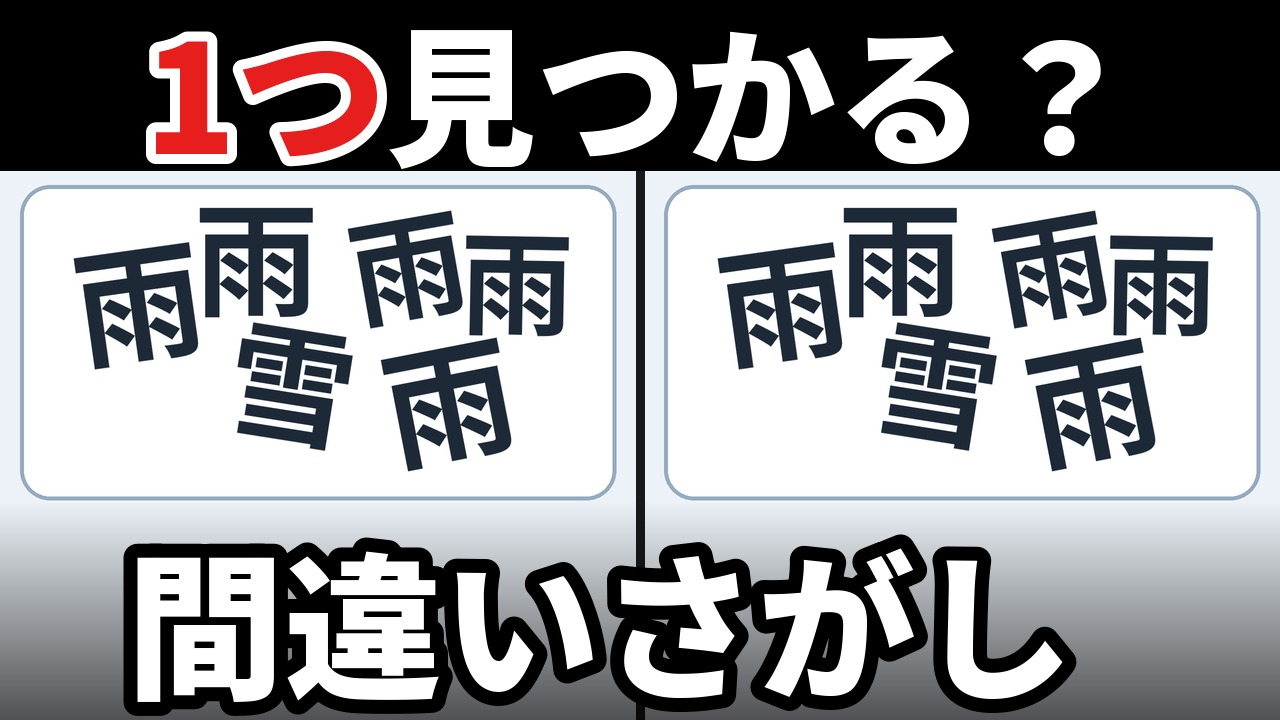
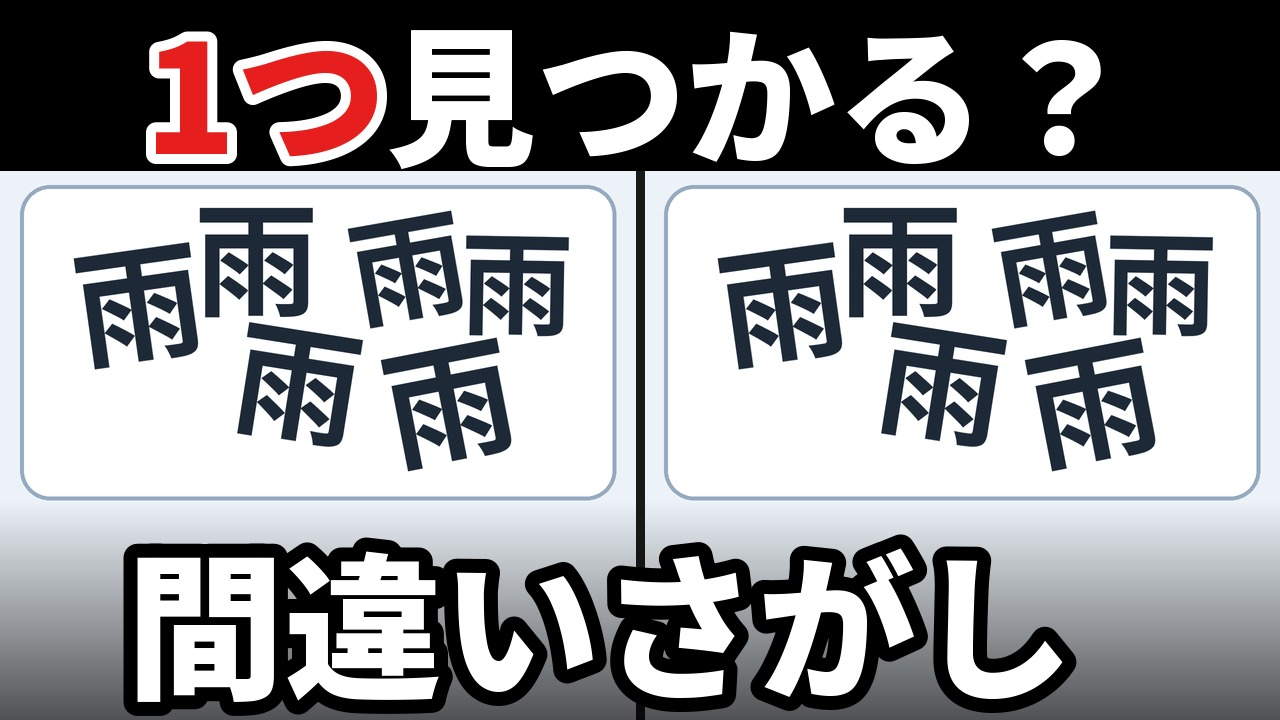
文字クイズ長尺 tlong_002（漢字の間違い探し20問）：監査合格・非公開アップロード、順番待ち30行目を完了
Claude-Session: https://claude.ai/code/session_01RF3BnfrPSRk1U21VXW6Yry

Changed region(s): [[0.6875, 0.4583, 0.7812, 0.6417], [0.1875, 0.4583, 0.2812, 0.6417]]

diff --git a/scripts/text_long.py b/scripts/text_long.py
@@ -770,7 +770,7 @@ def make_thumbnail(P, folder):
         return
     if P["kind"] == "chigau_long":     # 字がたくさん散らばる台紙（左右とも同じ絵）
         d.rounded_rectangle((40, 30, pw * sc - 40, 660), 60, fill=TH["panel"], outline=TH["edge"], width=8)
-        Qt = dict(Q, n=Th.get("n", 6), size=Th.get("size", [210, 260]), seed=Th.get("seed", 5), odd_i=Th.get("odd_i", 2), tilt=Th.get("tilt", 12))
+        Qt = dict(Q, odd=Q["main"], n=Th.get("n", 6), size=Th.get("size", [210, 260]), seed=Th.get("seed", 5), odd_i=Th.get("odd_i", 2), tilt=Th.get("tilt", 12))
         for k in range(200):
             try:
                 lay = scatter(dict(Qt, seed=Qt["seed"] + 100 * k), area=(90, 60, pw * sc - 90, 640), canvas=(pw * sc, ph * sc)); break

diff --git a/departments/audit/log.md b/departments/audit/log.md
@@ -209,3 +209,5 @@
 | 2026-11-25 | tlong_001 文字クイズ長尺（都道府県クイズ 全20問） | video.mp4（571.3秒・1920×1080・30fps）・problem.json・answer_check.md・description.md・readings_check.md・transcript_check.md・frames.jpg・timeline.json・thumbnail.jpg・ab/thumb_A.jpg・scripts/text_long.py（新規）・scripts/youtube_playlists.py（コミット 77435cd） | 不合格（差し戻し1回目） | 重大 T-1：エンディングの登録のお願い「よかったら、チャンネル登録も、お願いします。」に理由がない（ng-list 2026-11-14、concept.md「登録のお願いには理由を付ける」）。→ problem.json ending.lines の3つ目を第34回と同じ文「チャンネル登録とベルで、毎朝8時半に問題が届きます。毎日の頭の体操にどうぞ。」（声は「チャンネルとうろくとベルで、まいあさはちじはんに、もんだいがとどきます。まいにちの、あたまのたいそうにどうぞ。」。新しく作る声はこの1行だけ。transcript_check で確かめる）にして build を1回。重大 T-2：チャプターの最初「0:00 オープニング」が4.4秒しかなく、YouTube はチャプターの長さが10秒未満だとチャプター全体を出さない（CEO指示「説明欄にチャプターを入れる」が働かない）。→ text_long.py write_description で「オープニング」の行を出さず、最初を「0:00 1問目（りんごで有名な県）」にする。全チャプター10秒以上かをプログラムで確かめる。合格：答え20問とも1つに決まる（候補2つの2・3・5・14・16・19はヒントで1つ。事実もなまはげ秋田・首里城沖縄・美濃岐阜・越中富山・日向宮崎ほか全部正しい）。県庁所在地の問題は休憩カード・説明欄で予告しており問題なし。ショートとの重なりは過去の text_ の problem.json 全49本と照合し、答えが同じなのは1問目 青森（text_032）・10問目 大分（text_015）の2問だけ＝新しい18問。愛知・岩手・茨城は過去のショートではヒントの中だけ。声45行すべて「渡した文」あり・「入る」なし・11/18問目の番号の読みOK・文の間0.64秒以上。1問目4.4秒・15秒カウント（残り5〜1のピッ）・答え。抜き取り（2問目0:31・11問目4:37・20問目8:45・エンディング9:11）は画面と一致。−19.9LUFS・ピーク−0.8dB。冬の色・0:00大きな文字。thumb_same_check 合格（差1.08）。targets() はショートの分け方を変えない（text_/mushi_/間違い探しで確認）。text_shorts.py は未変更。軽微：(1) タイトル3案（ab/titles.md）とサムネ3案がない（間違い探しの決まり。文字クイズ長尺で要るかは事業部長が決める）。(2) チャプターの秒は切り捨てで最大0.8秒早い。(3) 指示のタイトル字数「30字」は実際28字（32字以内で問題なし）。 |
 | 2026-11-25 | tlong_001 再審査（差し戻し1回目のあと） | video.mp4（576.7秒・1920×1080）・problem.json・readings_check.md・transcript_check.md・description.md・timeline.json・tlong001_fix.jpg | 合格（軽微あり） | T-1：エンディング3行目は第34回と同じ字幕になった。声は読点を足した文（指示の文のままだと「うろこ」と崩れたため）。文字起こしは「ちゃんねるとうろくと、べるで、まいあさはちじはんに…」で OK、45行すべて OK。T-2：目次の先頭が「0:00 1問目」になり、全21行が10秒以上（エンディングは25秒）。10秒未満なら write_description が止まる。軽微は初回の (1)(2) のまま。 |
 | 2026-11-25 | tlong_002 文字クイズ長尺（漢字の間違い探し 全20問） | video.mp4（688.9秒・1920×1080）・problem.json・answer_check.md・description.md・readings_check.md・transcript_check.md・frames.jpg・timeline.json・thumbnail.jpg・ab/thumb_A.jpg・scripts/text_long.py の変更（コミット e82f0c7） | 不合格（差し戻し1回目） | 重大 K2-1：同じ字「場」を2問で変えている（5問目 野球場「場→湯」、16問目 駐車場「場→揚」）。どちらも土へんを替えて右の「昜」を残す、ほぼ同じ変化。episode-checklist【厳守】「同じ物・同じ変化は1回の動画の中で1度まで」（11/25 CEO決定で重大）に当たる。check_kanji は「違う字」の重なりしか調べず、元の字の重なりを見ていない。→ 5問目の2つ目を「4行目の『野』→『理』」（字幕「野球場の『野』が、理科の『理』に。」、声「やきゅうじょうの、やが、りかの、りに」）にする。check_kanji で、変える元の字の重なりも止める。直すのは5問目だけ、書き出しは1回。合格：違う字40字はどれも実在の常用の字で、読みと声の言葉（労働・遠足・官庁・合格・白髪・ご主人ほか）も正しい。20問とも新しい言葉で、ショートとの重なりなし。答えの赤丸は声と同じ時に出る（11・13・17・19問目を画面で確認）。答えの声のあいだは0.65秒以上、文の間は0.66秒以上。スマホ幅（横390px）に縮めても「待→特」「便→使」「局→居」「自→白」「誕→談」「覧→覚」「板→坂」を見分けられる。1問目は4.4秒、目次は0:00の1問目から始まり、全チャプター10秒以上。抜き取り（11問目5:33・13問目6:38・17問目8:50・19問目9:56）は画面と一致。−19.2LUFS・ピーク−1.9dB。冬の背景・登録のお願いは理由付きで最後だけ。thumb_same_check 合格（差1.1）。タイトル26字（報告の27字は数え違い）。text_long.py の変更は、都道府県の作り方（question_frame・答え・音）を変えていない（tlong_001 の再書き出しも合格）。軽微：(1) 長さ11分29秒。目安を超えるが、決まりはなく再生時間には有利なので軽微。(2) 答えの声「きもちの、もに」「おぼえるの、おぼ、に」「つかうの、つかに」「はなすの、はなに」は誤りではないが不自然。次からは字の読みがそのまま言える言葉（例：持参・感覚）を選ぶ。(3) 5行の問題は字の枠が画面の約6割しかない。左右の空きを使って字を大きくできる。(4) 「新」が4問目では元の字、10問目では違う字として出る（変化が違うので可）。 |
+| 2026-11-25 | tlong_002 再審査（差し戻し1回目のあと） | 5問目の答えの画面 tlong002_q5.jpg・readings_check.md・transcript_check.md の q05_ans1/2・answer_check.md・text_long.py check_kanji・video.mp4（689.0秒） | 合格（軽微あり） | K2-1 は直った。5問目は「球→求」（2行目）と「野→理」（4行目）。赤丸の位置と字幕は合っている。声「やきゅうじょうの、やが、りかの、りに」の文字起こしは OK。check_kanji で、変える元の字が重なると止まる（odup）。check の結果は合格。軽微は初回の (1)〜(4) のまま。 |
+| 2026-11-25 | tlong_003 文字クイズ長尺（ちがうのどーれだ 漢字版 全20問） | video.mp4（637.1秒・1920×1080）・problem.json・answer_check.md・description.md・readings_check.md・transcript_check.md・frames.jpg・timeline.json・thumbnail.jpg・ab/thumb_A.jpg・scripts/text_long.py（chigau_long） | 不合格（差し戻し1回目） | 重大 C3-1：サムネに違う字「雪」が入っている（3問目の雨の台紙に雪が1つ）。サムネで答えが見つかってしまい、episode-checklist【厳守】「サムネは違いを作る前の元の絵（違いゼロ）」に違反する。thumb_same_check は左右が同じかだけを見るので合格になる。→ make_thumbnail の chigau_long で、台紙を odd＝main（全部「雨」）にして作り直す（例：Qt = dict(Q, odd=Q["main"], …)）。作り直すのはサムネ（thumbnail.jpg・ab/thumb_A.jpg）だけで、動画は書き出さない。合格：答えは20問とも違う字が1個。字の重なり0で、台紙の中にある。字40種はすべて別の字で、1回の中で同じ字・同じ変化の重なりはない。ショートとの重なりは scatter の10本（text_018・028〜030・040〜045）と照合し、鳥/烏・牛/午の2組だけ（text_042 の日→目とは組が違う）。読みと言葉（化粧のけ・回数・第三・おっと・くちぶえ・ゆうがた・九州・永久・午前ほか）は正しい。文字起こしは45行すべて OK。幅300pxで赤丸なしでも口→日・天→夫・万→方・弟→第・米→来・国→回・牛→午は見分けられる（天/夫・米/来がいちばん細かい）。1問目は4.4秒、目次は0:00の1問目から。−20.0LUFS・ピーク−2.0dB。冬の背景・登録のお願いは理由付きで最後だけ。説明欄に効果の約束なし。タイトル28字（報告の29字は数え違い）。軽微：(1) ふつうの問題の考える時間が20秒（指示は15秒前後。難しさに合わせた延長として可）。(2) 字どうしが接するほど近い所がある（1問目の林の縦の並び、14問目の角の3つ、19問目の鳥の並び）。重なり0でも、2字が1つの形に見えかねない。次の回から字と字のすきまに最小値を設ける。(3) 配置に偏りがある（11問目は中央が空き、字が左右に寄る）。 |

diff --git a/knowledge/production-queue.md b/knowledge/production-queue.md
@@ -38,7 +38,7 @@
 | 27 | 間違い探し 長尺 第33回 | 冬：縁側のひなたぼっこ（干し柿・猫） | あり | 完了 | 長尺 dvzgHRgTI3U／ショート 第2問 Yw7YpbEYc_w・第4問 p1LMJ7xIRww（監査：差し戻し1回のあと合格） |
 | 28 | 間違い探し 長尺 第34回 | 冬：雪の公園（雪だるまづくり） | あり | 完了 | 長尺 5BMzA6LvstY／ショート 第2問 de8TsTd0smQ・第4問 rbDPKlTaoms（監査：差し戻し1回のあと合格） |
 | 29 | 文字クイズ 長尺（20問） | 都道府県クイズ（11/21会議の暫定タイトル：【都道府県クイズ】あと1県が出てこない！全20問｜脳トレ） | なし | 完了 | 長尺 DuY5GEDSBPY（tlong_001。監査：差し戻し1回のあと合格） |
-| 30 | 文字クイズ 長尺（20問） | 漢字の間違い探し（【漢字の間違い探し】左右で違う字は？全20問｜脳トレ） | なし | 作業中（2026-11-25 14:26 UTC） | |
+| 30 | 文字クイズ 長尺（20問） | 漢字の間違い探し（【漢字の間違い探し】左右で違う字は？全20問｜脳トレ） | なし | 完了 | 長尺 nrOaUuy77fg（tlong_002。監査：差し戻し1回のあと合格） |
 | 31 | 文字クイズ 長尺（20問） | ちがうのどーれだ 漢字版（題は title-strategy.md に沿って作る） | なし | 作業中（2026-11-25 15:27 UTC） | |
 - 虫めがねクイズ（2026-11-25 CEO決定で本番化）：scripts/mushimegane_shorts.py を使う。題材は mushimegane_defs.json に足す（試作の かぶ・たぬき・おでん は使わない）。背景は冬の色。再生リストは専用の「虫めがねクイズ｜この○○なーんだ？」（無ければ作る）。決まりは knowledge/shorts.md。
 - **ショートの行は当面足さない**（2026-11-25 CEO：在庫114本で約2か月分）。在庫が3週間分を切ったら再開を事業部長が提案する。

diff --git a/outputs/2026-11-25_tlong_002/audit.md b/outputs/2026-11-25_tlong_002/audit.md
@@ -1,0 +1,13 @@
+# 監査結果 tlong_002（漢字の間違い探し 全20問）
+
+- 2026-11-25 初回：不合格（重大1件）
+  - K2-1：同じ字「場」を2問で変えていた（5問目「場→湯」・16問目「場→揚」）
+- 2026-11-25 再審査：**合格（軽微あり）**
+  - 5問目の違いを「球→求」と「野→理」にした。赤丸・字幕・声が合っている。
+  - 文字起こしは OK。check_kanji は、変える元の字が重なったら止まる。check の結果は OK（20問すべて新しい）。
+  - video.mp4 は689.0秒。
+- 軽微（次の回へ）
+  - 長さ11分29秒
+  - 答えの声が不自然（「きもちの、もに」など）
+  - 5行の問題の字を、もっと大きくできる
+  - 「新」が元の字と違う字の両方で出る（変化が違うので可）

diff --git a/knowledge/schedule.md b/knowledge/schedule.md
@@ -164,3 +164,4 @@
 | 回 | 種類 | 動画ID | タイトル |
 |---|---|---|---|
 | tlong_001 | 都道府県クイズ 20問 | **DuY5GEDSBPY** | 【都道府県クイズ】あと1県が出てこない！全20問｜脳トレ |
+| tlong_002 | 漢字の間違い探し 20問 | **nrOaUuy77fg** | 【漢字の間違い探し】左右で違う字は？全20問｜脳トレ |
